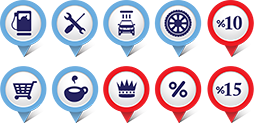
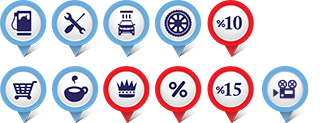
fixes

diff --git a/app/assets/stylesheets/application.scss b/app/assets/stylesheets/application.scss
@@ -236,7 +236,7 @@ nav ul{
 				// float: right;
 				position: absolute;
 				right: 11px;
-				top: 12px;
+				top: 10px;
 			}
 
 		a.li{
@@ -1429,4 +1429,8 @@ input[type=text],input[type=password], input[type=email],textarea{
 .pagination-wrap{
 	margin-bottom:0;
 	display:inline-block;
+}
+
+.set-widgets{
+	max-width:366px;
 }

diff --git a/db/schema.rb b/db/schema.rb
@@ -11,7 +11,7 @@
 #
 # It's strongly recommended that you check this file into your version control system.
 
-ActiveRecord::Schema.define(version: 20141006113315) do
+ActiveRecord::Schema.define(version: 20141007163601) do
 
   # These are extensions that must be enabled in order to support this database
   enable_extension "plpgsql"
@@ -144,6 +144,19 @@ ActiveRecord::Schema.define(version: 20141006113315) do
     t.datetime "created_at"
     t.datetime "updated_at"
   end
+
+  add_index "car_washes_categories", ["car_wash_id"], name: "index_car_washes_categories_on_car_wash_id", using: :btree
+
+  create_table "car_washes_services", force: true do |t|
+    t.integer  "car_wash_id"
+    t.integer  "service_id"
+    t.datetime "created_at"
+    t.datetime "updated_at"
+    t.string   "price"
+  end
+
+  add_index "car_washes_services", ["car_wash_id", "service_id"], name: "index_car_washes_services_on_car_wash_id_and_service_id", unique: true, using: :btree
+  add_index "car_washes_services", ["car_wash_id"], name: "index_car_washes_services_on_car_wash_id", using: :btree
 
   create_table "categories", force: true do |t|
     t.string   "name"
@@ -406,6 +419,12 @@ ActiveRecord::Schema.define(version: 20141006113315) do
 
   add_index "roles_users", ["role_id"], name: "index_roles_users_on_role_id", using: :btree
   add_index "roles_users", ["user_id"], name: "index_roles_users_on_user_id", using: :btree
+
+  create_table "services", force: true do |t|
+    t.string   "name"
+    t.datetime "created_at"
+    t.datetime "updated_at"
+  end
 
   create_table "sessions", force: true do |t|
     t.string   "session_id", null: false

diff --git a/app/controllers/car_washes_controller.rb b/app/controllers/car_washes_controller.rb
@@ -41,6 +41,12 @@ class CarWashesController < ApplicationController
     @payment = Payment.new(car_wash_id: @car_wash.id, amount: 6000.00)
     @video = Video.new
     @image = Image.new
+
+    @car_wash_services = []
+    Service.all.each do |service|
+      @car_wash_services << @car_wash.car_washes_services.find_or_create_by(service_id: service.id)
+    end
+
   end
 
   # POST /car_washes
@@ -142,6 +148,9 @@ class CarWashesController < ApplicationController
         :video_title2,
         :widget_type,
         :widget_content,
-        :category_ids => [])
+        :car_washes_services_attributes => [:price, :id],
+        :category_ids => [],
+        :service_ids => []
+        )
     end
 end

diff --git a/app/models/widget.rb b/app/models/widget.rb
@@ -6,6 +6,7 @@ class Widget
       [
       new(name: 'Автомойка', type: :normal, clip_rect: {offset: {x:103,y:0}, dim: dim}),
       new(name: 'Автосервис', type: :repair, clip_rect: {offset: {x:51,y:0}, dim: dim}),
+      new(name: 'Видео-трансляция', type: :live, clip_rect: {offset: {x:262,y:66}, dim: dim}),
       new(name: 'Скидка 10%', type: :discount_10, clip_rect: {offset: {x:207,y:0}, dim: dim}),
       new(name: 'Скидка 15%', type: :discount_15, clip_rect: {offset: {x:207,y:66}, dim: dim}),
       new(name: 'Шиномонтаж', type: :tire_svc, clip_rect: {offset: {x:154,y:0}, dim: dim}),

diff --git a/app/models/car_wash.rb b/app/models/car_wash.rb
@@ -19,11 +19,14 @@ class CarWash < ActiveRecord::Base
   has_many :images, as: :parent
   has_many :videos
   has_and_belongs_to_many :categories
+  has_many :car_washes_services
+  has_many :services, through: :car_washes_services
 
   geocoded_by :address, :latitude  => :lat, :longitude => :lon
 
   # validates_presence_of :contacts, :address, :working_time
 
+  accepts_nested_attributes_for :car_washes_services
   
   def activate!
     self.update(activated: true)

diff --git a/db/migrate/20141007154524_create_services.rb b/db/migrate/20141007154524_create_services.rb
@@ -1,0 +1,13 @@
+class CreateServices < ActiveRecord::Migration
+  def change
+    create_table :services do |t|
+      t.string :name
+
+      t.timestamps
+    end
+
+    Service.create!(name:'Эконом')
+    Service.create!(name:'Стандарт')
+    Service.create!(name:'Комплекс')
+  end
+end

diff --git a/db/migrate/20141007155924_add_index_to_car_washes_services.rb b/db/migrate/20141007155924_add_index_to_car_washes_services.rb
@@ -1,0 +1,8 @@
+class AddIndexToCarWashesServices < ActiveRecord::Migration
+  def change
+    add_index :car_washes_services, [:car_wash_id, :service_id], :unique => true
+    add_index :car_washes_services, :car_wash_id
+
+    add_index :car_washes_categories, :car_wash_id
+  end
+end

diff --git a/db/migrate/20141007154656_create_car_washes_services.rb b/db/migrate/20141007154656_create_car_washes_services.rb
@@ -1,0 +1,9 @@
+class CreateCarWashesServices < ActiveRecord::Migration
+  def change
+    create_table :car_washes_services do |t|
+      t.integer :car_wash_id
+      t.integer :service_id
+      t.timestamps
+    end
+  end
+end

diff --git a/app/models/service.rb b/app/models/service.rb
@@ -1,0 +1,6 @@
+class Service < ActiveRecord::Base
+  has_many :car_washes_services
+  has_many :car_washes, through: :car_washes_services
+
+  validates :name, presence: true, uniqueness: true
+end

diff --git a/db/migrate/20141007163601_add_price_to_car_washes_services.rb b/db/migrate/20141007163601_add_price_to_car_washes_services.rb
@@ -1,0 +1,5 @@
+class AddPriceToCarWashesServices < ActiveRecord::Migration
+  def change
+    add_column :car_washes_services, :price, :string
+  end
+end

diff --git a/spec/models/service_spec.rb b/spec/models/service_spec.rb
@@ -1,0 +1,5 @@
+require 'spec_helper'
+
+describe Service do
+  pending "add some examples to (or delete) #{__FILE__}"
+end

diff --git a/app/models/car_washes_service.rb b/app/models/car_washes_service.rb
@@ -1,0 +1,4 @@
+class CarWashesService < ActiveRecord::Base
+  belongs_to :car_wash
+  belongs_to :service
+end
